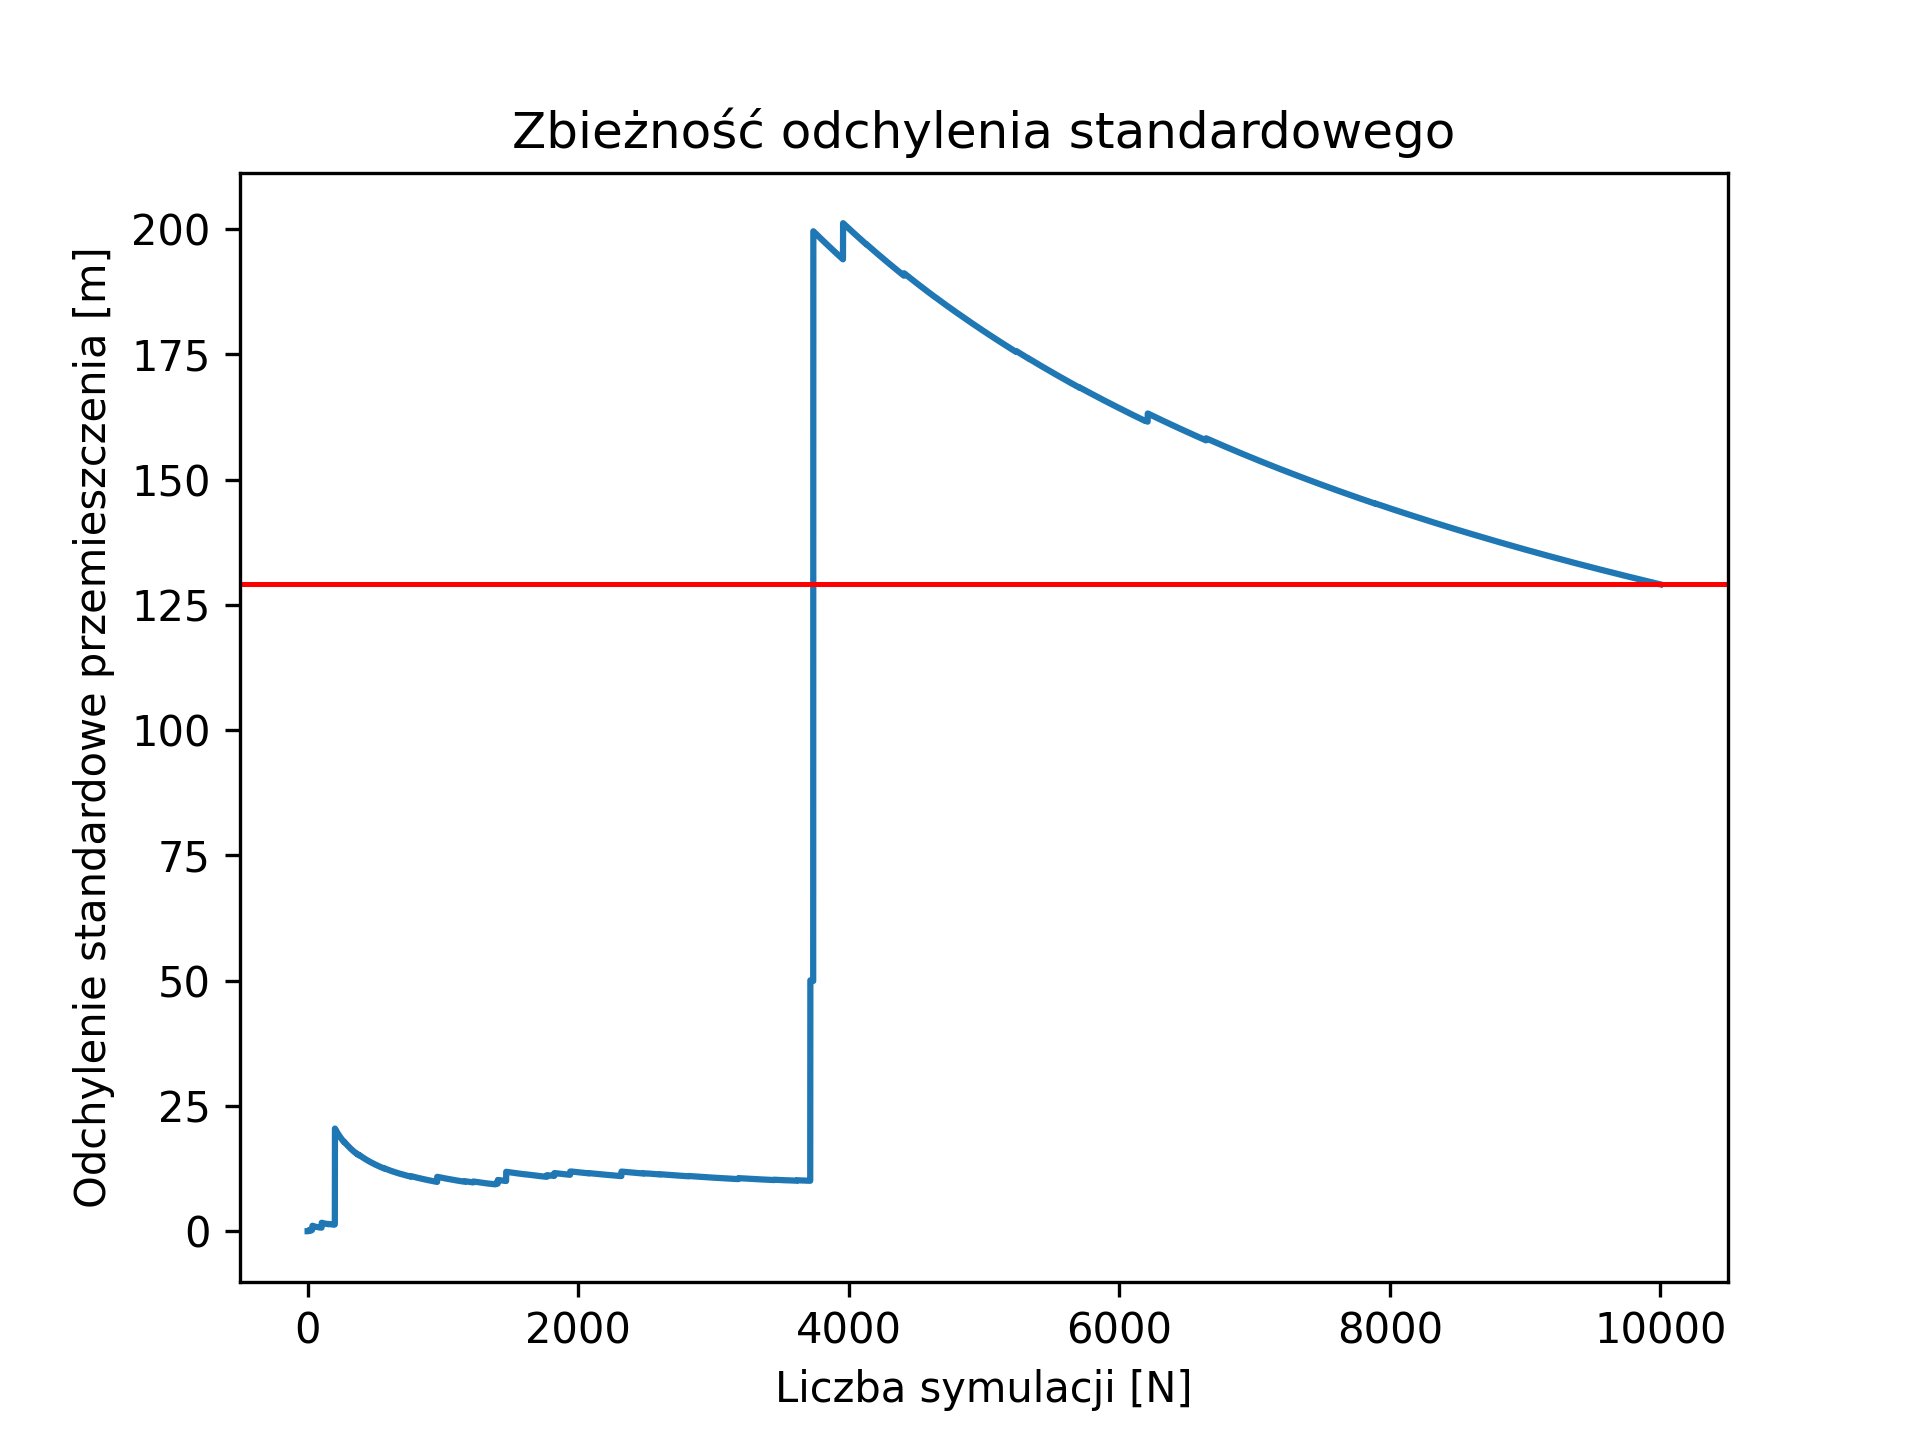
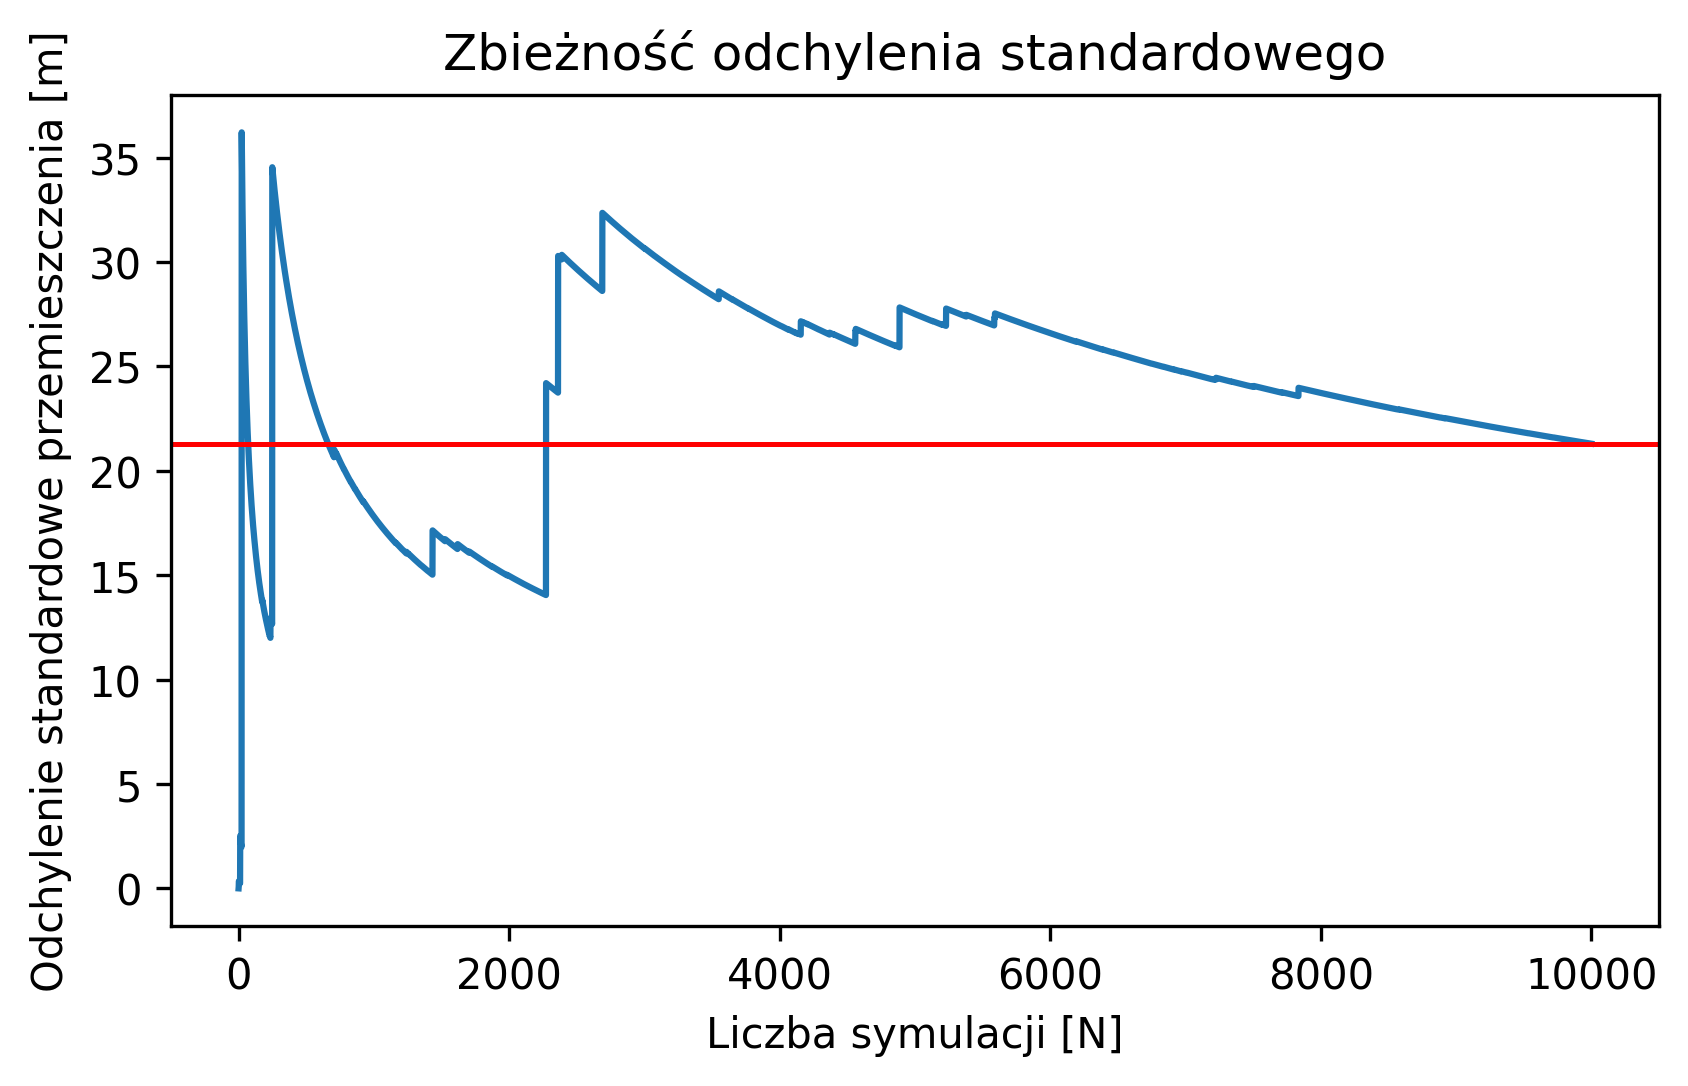
feat: New image size

diff --git a/osp/Structures/shared.py b/osp/Structures/shared.py
@@ -44,39 +44,42 @@ def save_results(n_fail: int, n_trials: int, u_sims, u_title: str, structure_nam
 
     save_dir = os.path.join('..', '..', 'src', 'images')
 
-    plt.figure()
+    width_in_inches = 1920 / 300
+    height_in_inches = 1080 / 300
+
+    plt.figure(figsize=(width_in_inches, height_in_inches), dpi=300)
     opsv.plot_model()
     plt.title(f'Model konstrukcji: {structure_name}')
-    plt.savefig(os.path.join(save_dir, f'{structure_name}_model.png'), dpi=300)
+    plt.savefig(os.path.join(save_dir, f'{structure_name}_model.png'), dpi=300, bbox_inches='tight')
 
-    plt.figure()
+    plt.figure(figsize=(width_in_inches, height_in_inches), dpi=300)
     opsv.plot_defo()
     plt.title(f'Deformacja konstrukcji: {structure_name}')
-    plt.savefig(os.path.join(save_dir, f'{structure_name}_{n_trials}_def.png'), dpi=300)
+    plt.savefig(os.path.join(save_dir, f'{structure_name}_{n_trials}_def.png'), dpi=300, bbox_inches='tight')
 
-    plt.figure()
+    plt.figure(figsize=(width_in_inches, height_in_inches), dpi=300)
     plt.plot(u_sims)
     plt.axhline(u_mean, 0, 1, color='b', lw=0.6)
     plt.title(u_title)
     plt.xlabel('liczba symulacji [N]')
     plt.ylabel('Przemieszczenie [m]')
     plt.ylim(1.1 * u_min, 0)
-    plt.savefig(os.path.join(save_dir, f'{structure_name}_{n_trials}_sp.png'), dpi=300)
+    plt.savefig(os.path.join(save_dir, f'{structure_name}_{n_trials}_sp.png'), dpi=300, bbox_inches='tight')
 
     u_mean_cum = np.cumsum(u_sims)/np.arange(1, n_trials + 1)
-    plt.figure()
+    plt.figure(figsize=(width_in_inches, height_in_inches), dpi=300)
     plt.plot(u_mean_cum)
     plt.axhline(u_mean, 0, 1, color='r', lw=1.2)
     plt.title('Zbieżność wartości średniej przemieszczenia')
     plt.xlabel('Liczba symulacji [N]')
     plt.ylabel('Wartość średnia przemieszczenia [m]')
-    plt.savefig(os.path.join(save_dir, f'{structure_name}_{n_trials}_zsp.png'), dpi=300)
+    plt.savefig(os.path.join(save_dir, f'{structure_name}_{n_trials}_zsp.png'), dpi=300, bbox_inches='tight')
 
     u_std_cum = [u_sims[:x].std() for x in range(1, n_trials + 1)]
-    plt.figure()
+    plt.figure(figsize=(width_in_inches, height_in_inches), dpi=300)
     plt.plot(u_std_cum)
     plt.axhline(u_std, 0, 1, color='r', lw=1.2)
     plt.title('Zbieżność odchylenia standardowego')
     plt.xlabel('Liczba symulacji [N]')
     plt.ylabel('Odchylenie standardowe przemieszczenia [m]')
-    plt.savefig(os.path.join(save_dir, f'{structure_name}_{n_trials}_zos.png'), dpi=300)
+    plt.savefig(os.path.join(save_dir, f'{structure_name}_{n_trials}_zos.png'), dpi=300, bbox_inches='tight')
